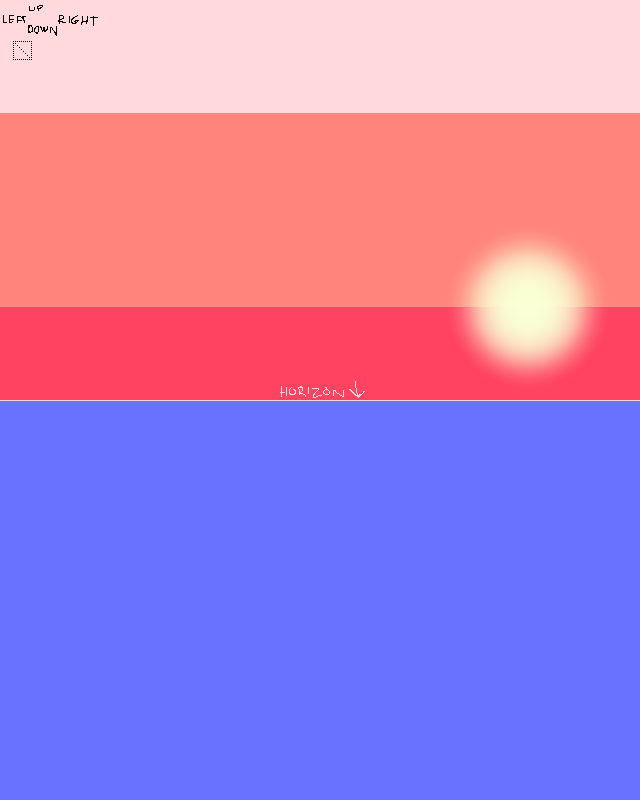
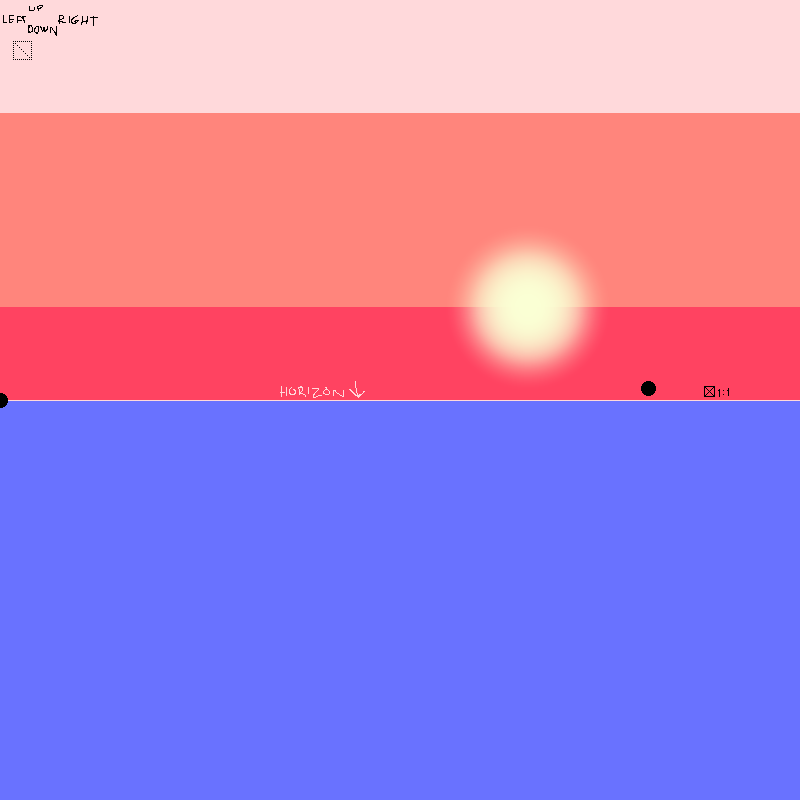
Fixed the way the background drawing worked, works correctly now

Changed region(s): [[0.5625, 0.2812, 0.9375, 0.5], [0.0, 0.0, 0.125, 0.0625], [0.3438, 0.4688, 0.4688, 0.5]]

diff --git a/core/src/org/sandholm/max/kart/KartGameScreen.java b/core/src/org/sandholm/max/kart/KartGameScreen.java
@@ -221,14 +221,15 @@ public class KartGameScreen extends UIScreen implements Screen, ContactListener,
         Gdx.gl.glEnable(GL20.GL_DEPTH_TEST);
 
         skyBatch.begin();
-        float rotatedOffset = (cameraAngle * gameMap.backgroundRepetition) / (360);
-        float screenRepetitions = gameMap.backgroundRepetition*(camera.fieldOfView/360);
-        float unitsPerDegree = screenRepetitions/camera.fieldOfView;
+        float aspectRatio = (float)screenHeight/screenWidth;
+        float rotatedOffset = (cameraAngle/360) * gameMap.backgroundRepetition;
+        float screenRepetitions = ((camera.fieldOfView/aspectRatio)/360f)*gameMap.backgroundRepetition;
+        float unitsPerDegree = (screenRepetitions*aspectRatio)/camera.fieldOfView;
         skyBatch.draw(gameMap.backgroundTexture, 0, 0, screenWidth, screenHeight,
                 -0.5f*screenRepetitions- rotatedOffset,
-                0.5f+cameraVerticalAngle*unitsPerDegree*0.5f+((float)screenHeight/(float)screenWidth)*screenRepetitions*0.5f,
+                0.5f+((camera.fieldOfView*unitsPerDegree)/2 + cameraVerticalAngle*unitsPerDegree),
                 0.5f*screenRepetitions - rotatedOffset,
-                0.5f+cameraVerticalAngle*unitsPerDegree*0.5f-((float)screenHeight/(float)screenWidth)*screenRepetitions*0.5f);
+                0.5f-((camera.fieldOfView*unitsPerDegree)/2 - cameraVerticalAngle*unitsPerDegree));
         skyBatch.end();
 
         for (int i=0; i<karts.size(); i++) {
